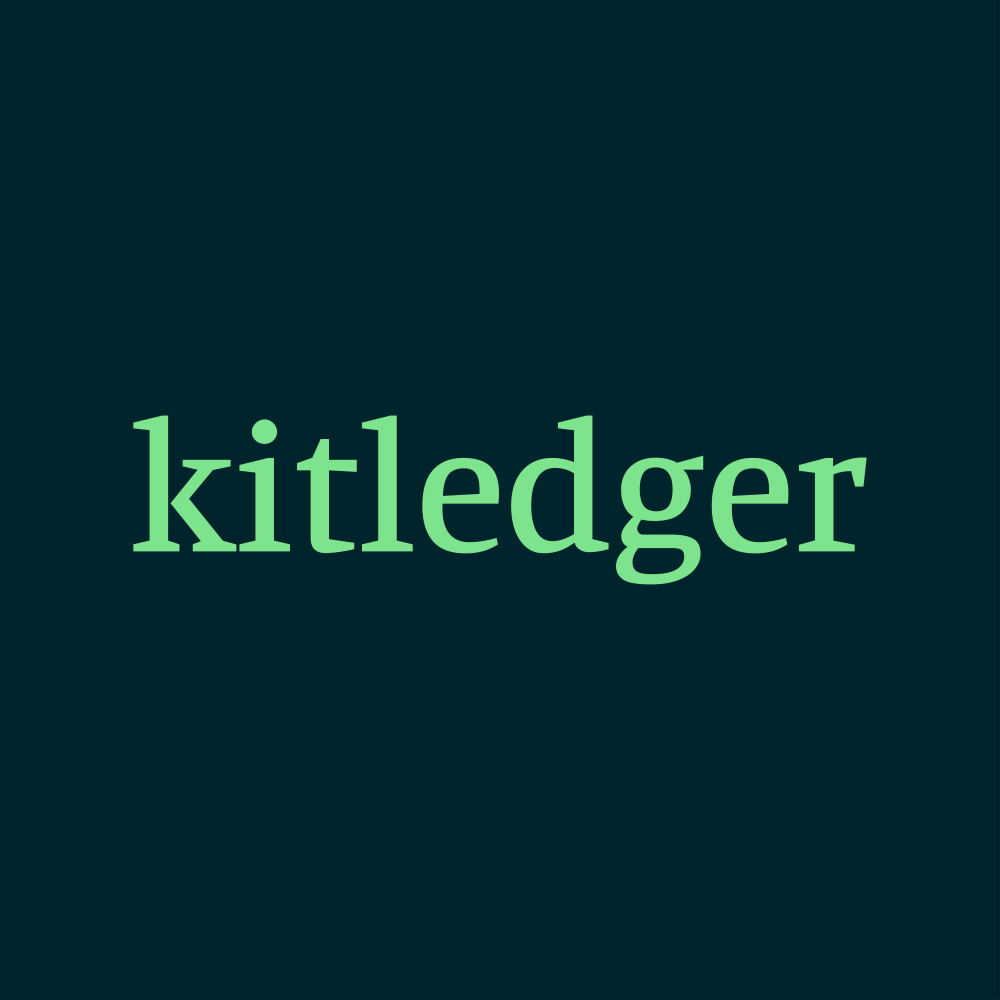
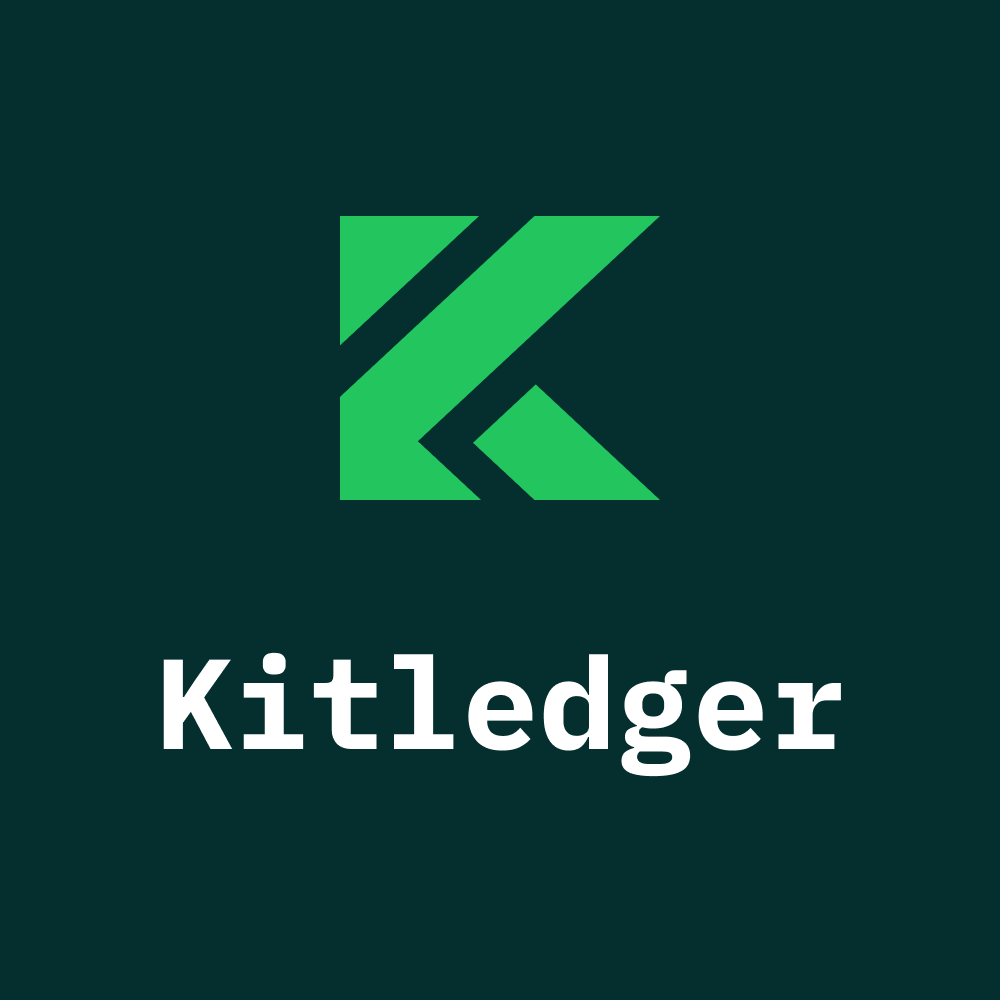
Brand

Changed region(s): [[0.124, 0.217, 0.868, 0.589], [0.155, 0.651, 0.837, 0.775], [0.341, 0.217, 0.465, 0.341]]

diff --git a/src/index.md b/src/index.md
@@ -3,11 +3,11 @@
 layout: home
 
 hero:
-  name: "(Coming Soon)"
-  text: "Framework for building transactional software"
+  name: "Kitledger"
+  text: "Framework for transactional software"
   tagline: A solid foundation based on double-entry accounting principles.
   image:
-    src: /brand/vector/default.svg
+    src: /brand/icon-simple.svg
     alt: KitLedger
   actions:
     - theme: brand
@@ -34,8 +34,6 @@ features:
     link: /docs
     linkText: Learn more
 ---
-
-# What can be, unburdened by what has been
 
 ## Key Benefits:
 
